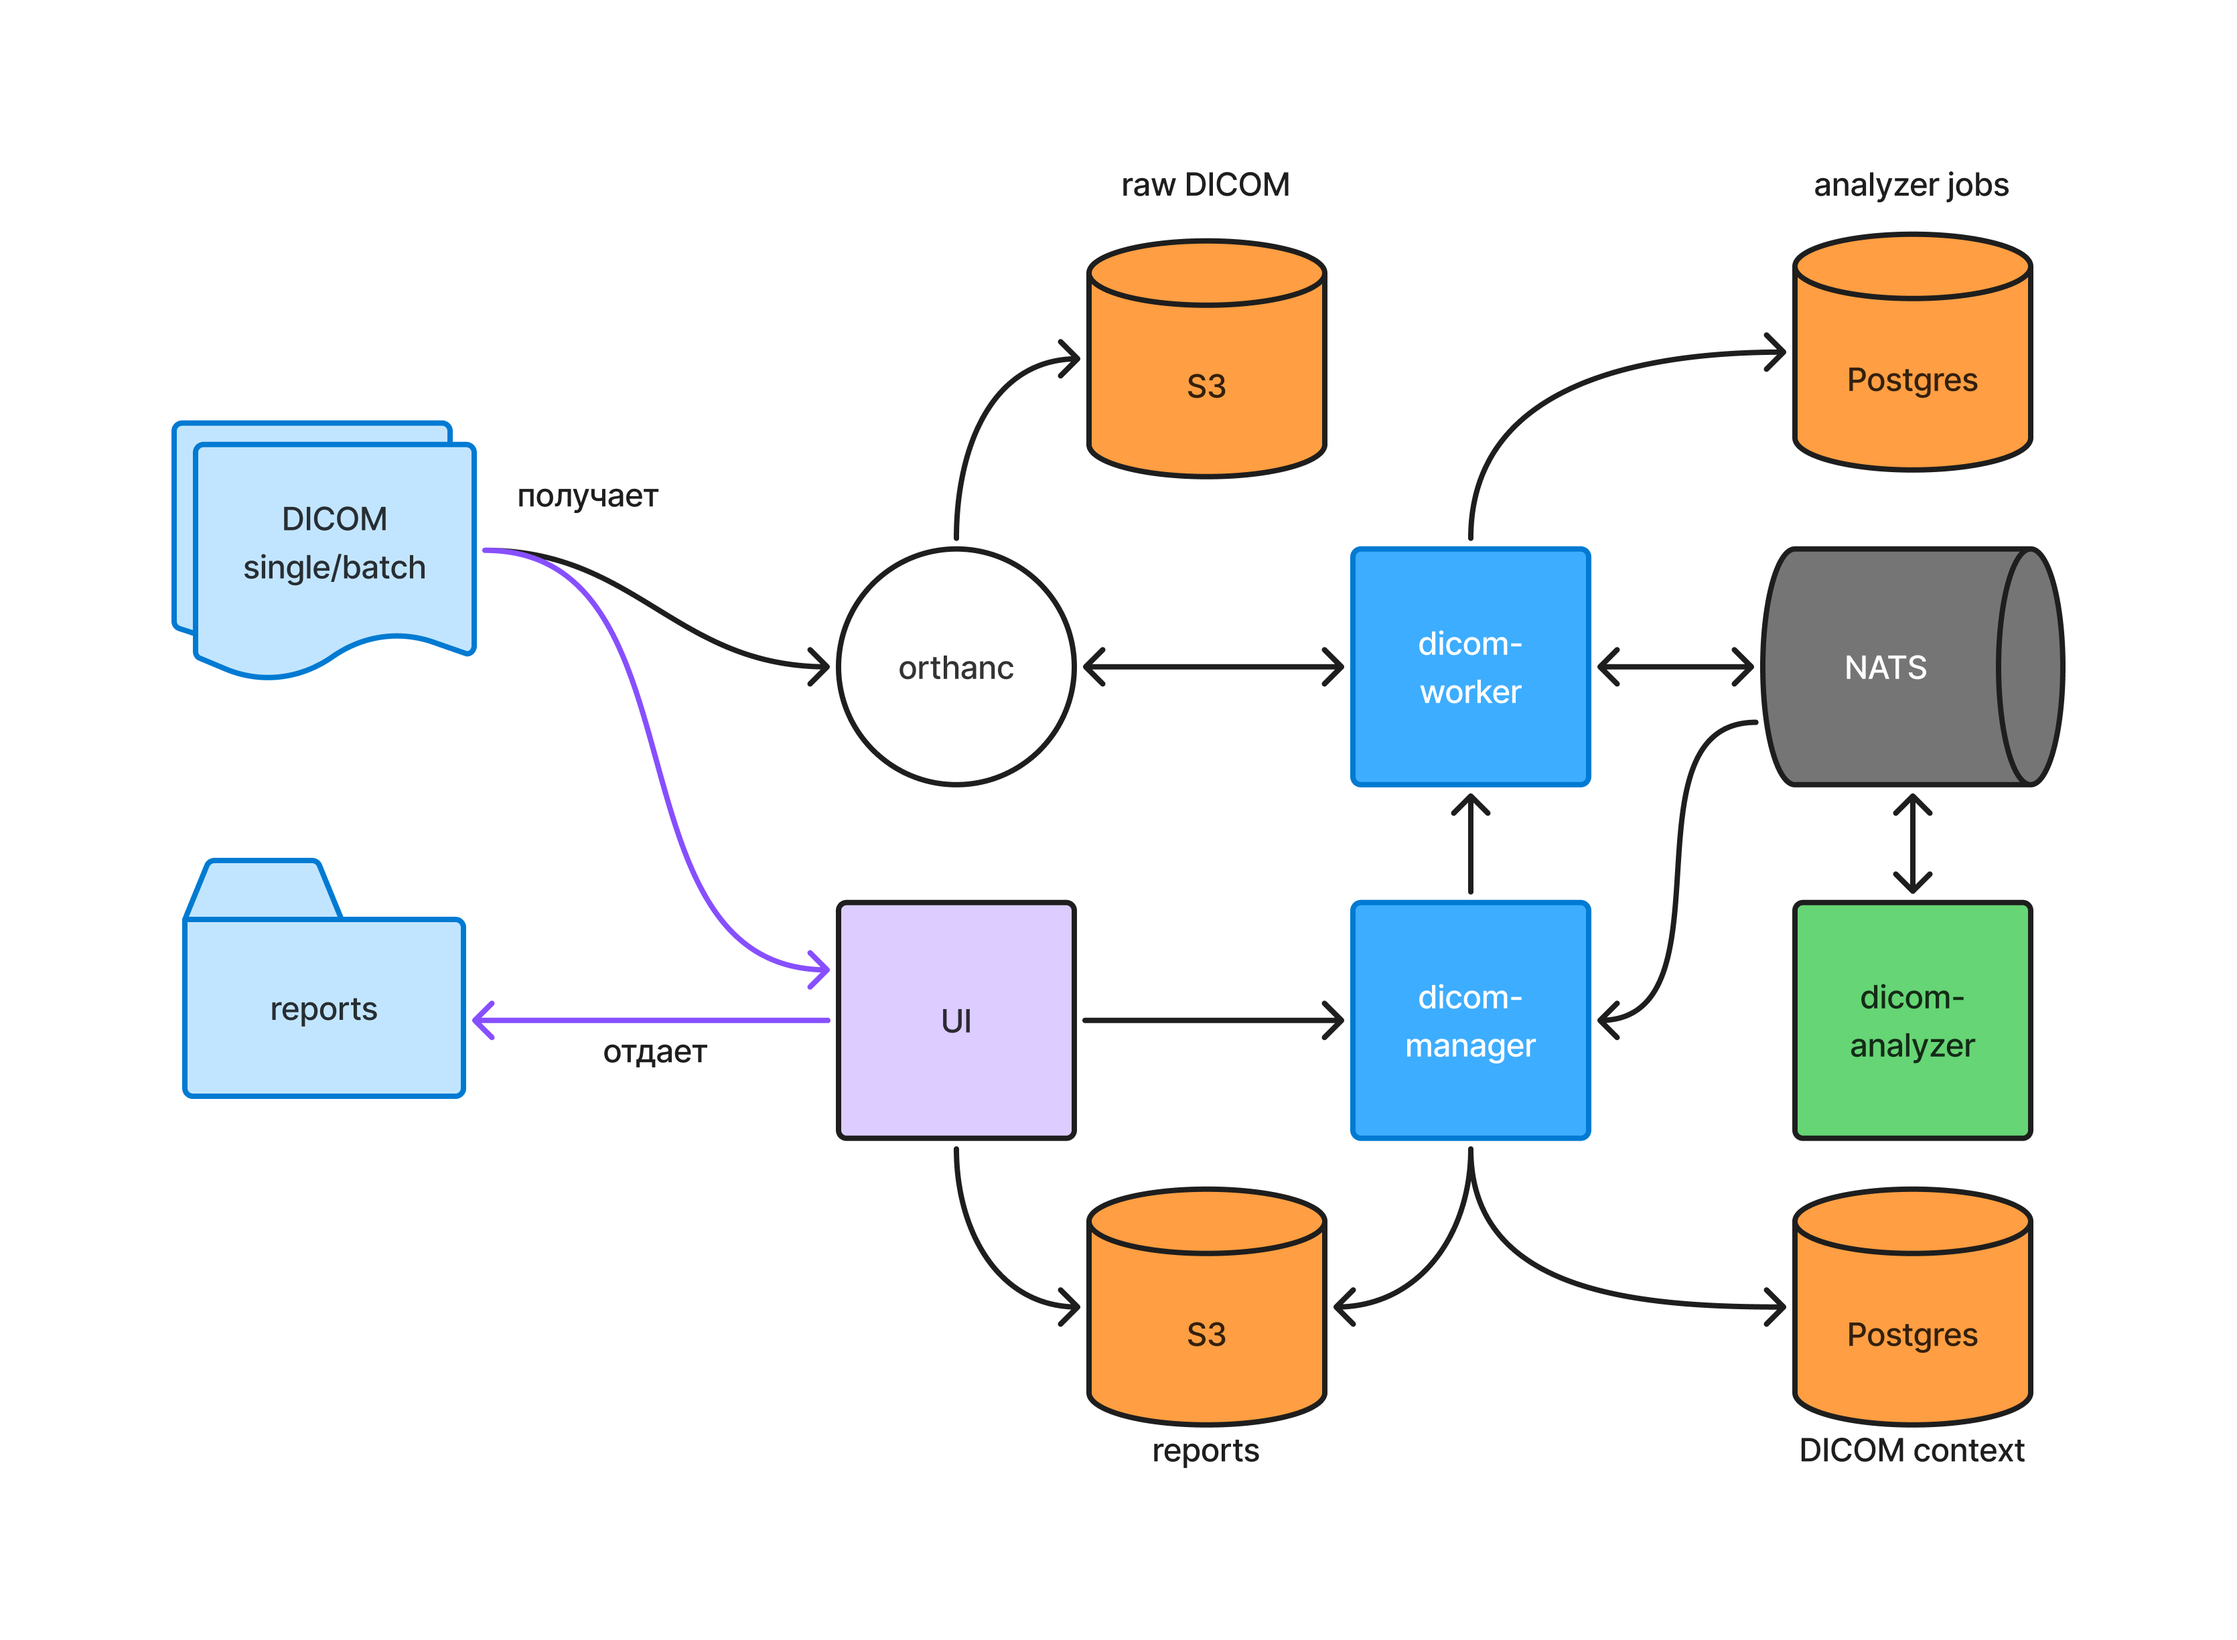
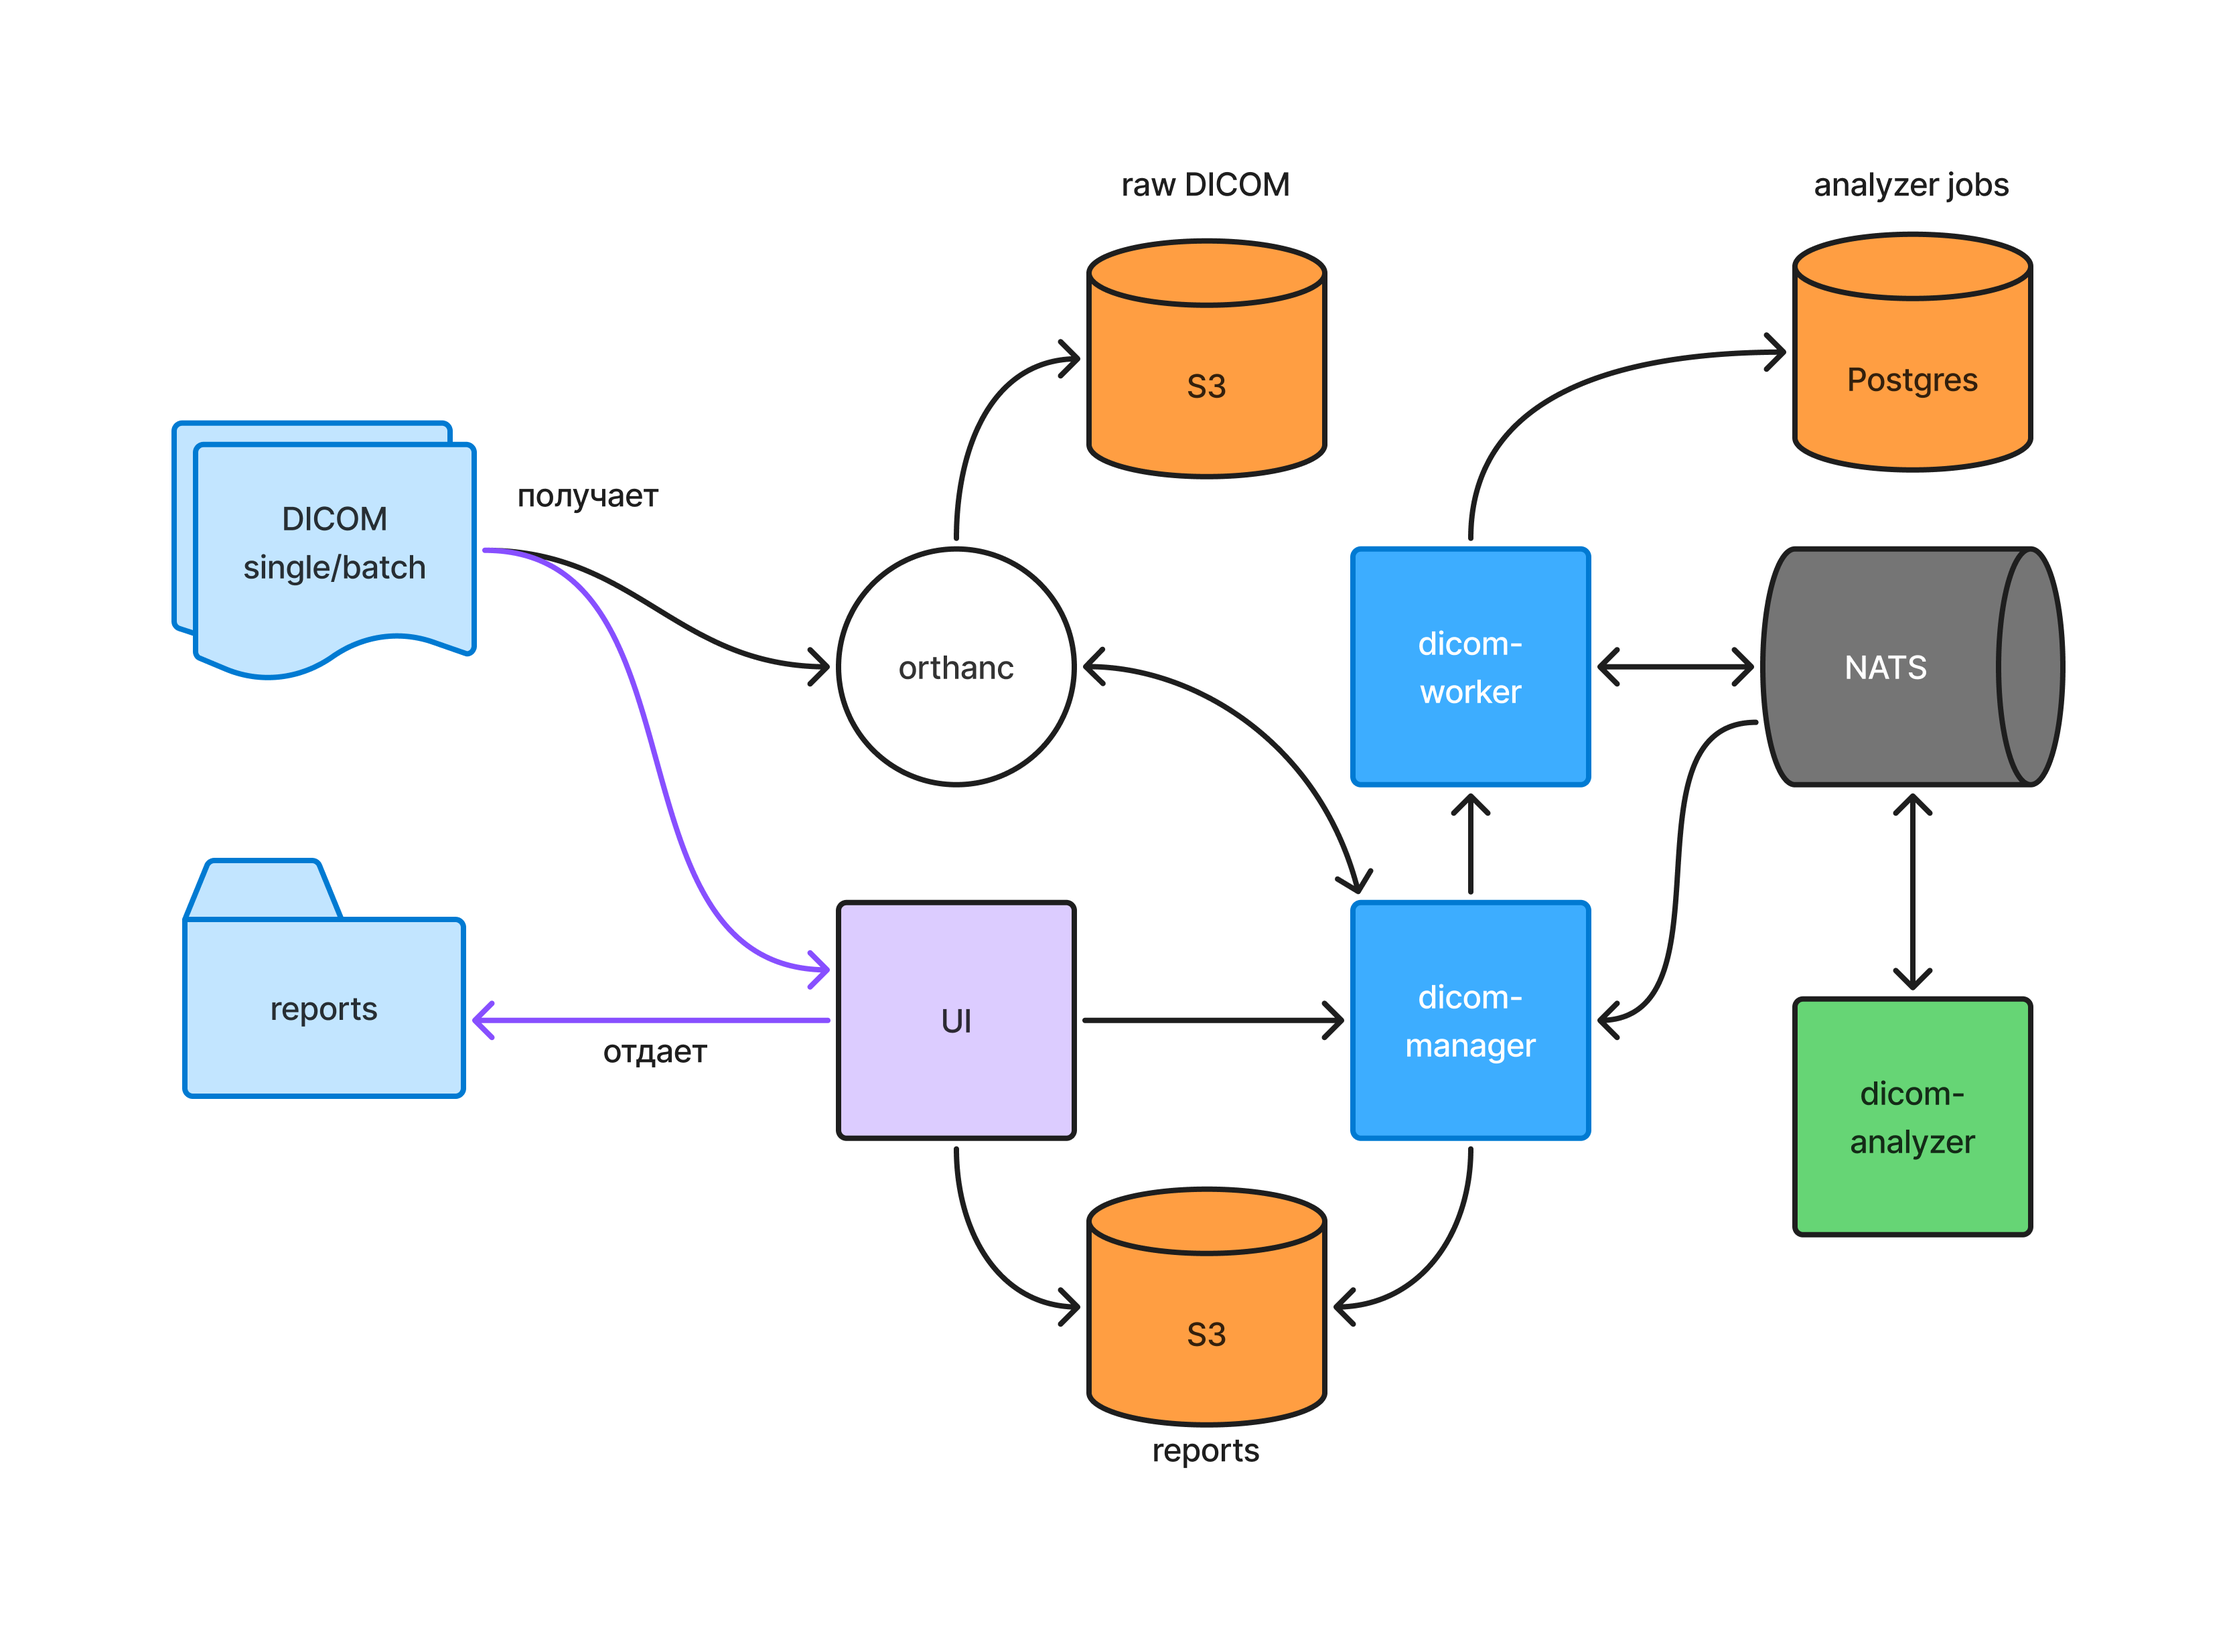
[dicom-worker]: тест интеграции с инфрой

diff --git a/dicom-worker/cmd/service/main.go b/dicom-worker/cmd/service/main.go
@@ -3,6 +3,9 @@ package main
 import (
 	"context"
 	"log"
+	"net/http"
+	"os"
+	"time"
 
 	"github.com/yogenyslav/ldt-2026/dicom-worker/internal/dicomer"
 	dicom_worker "github.com/yogenyslav/ldt-2026/dicom-worker/internal/generated/dicom-worker"
@@ -42,9 +45,31 @@ func run() error {
 
 	dicom_worker.RegisterDicomWorkerServiceServer(srv.GRPCServer(), &dicomer.Worker{})
 
-	if err = srv.Serve(); err != nil {
-		return err
+	port, ok := os.LookupEnv("DICOM_WORKER_PORT")
+	if !ok {
+		port = "8080"
 	}
+
+	http.HandleFunc(
+		"GET /health", func(w http.ResponseWriter, r *http.Request) {
+			_, span := obs.Tracing().Tracer().Start(r.Context(), "health-check")
+			defer span.End()
+
+			obs.Metrics().Counter("health_check_requests_total").Inc()
+
+			time.Sleep(1 * time.Second)
+			w.WriteHeader(http.StatusOK)
+			_, _ = w.Write([]byte("OK"))
+
+			obs.Logger().Info().Msg("Health check request processed")
+		},
+	)
+
+	http.ListenAndServe(":"+port, nil)
+
+	// if err = srv.Serve(); err != nil {
+	// 	return err
+	// }
 
 	return nil
 }
